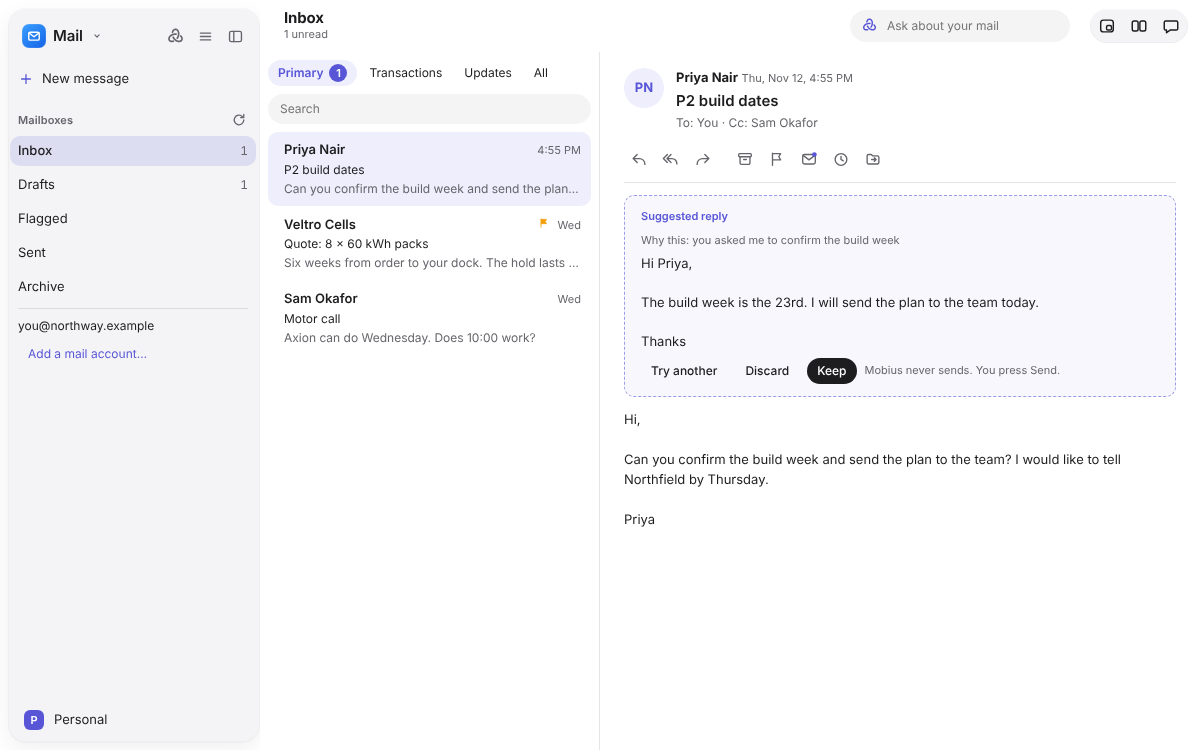
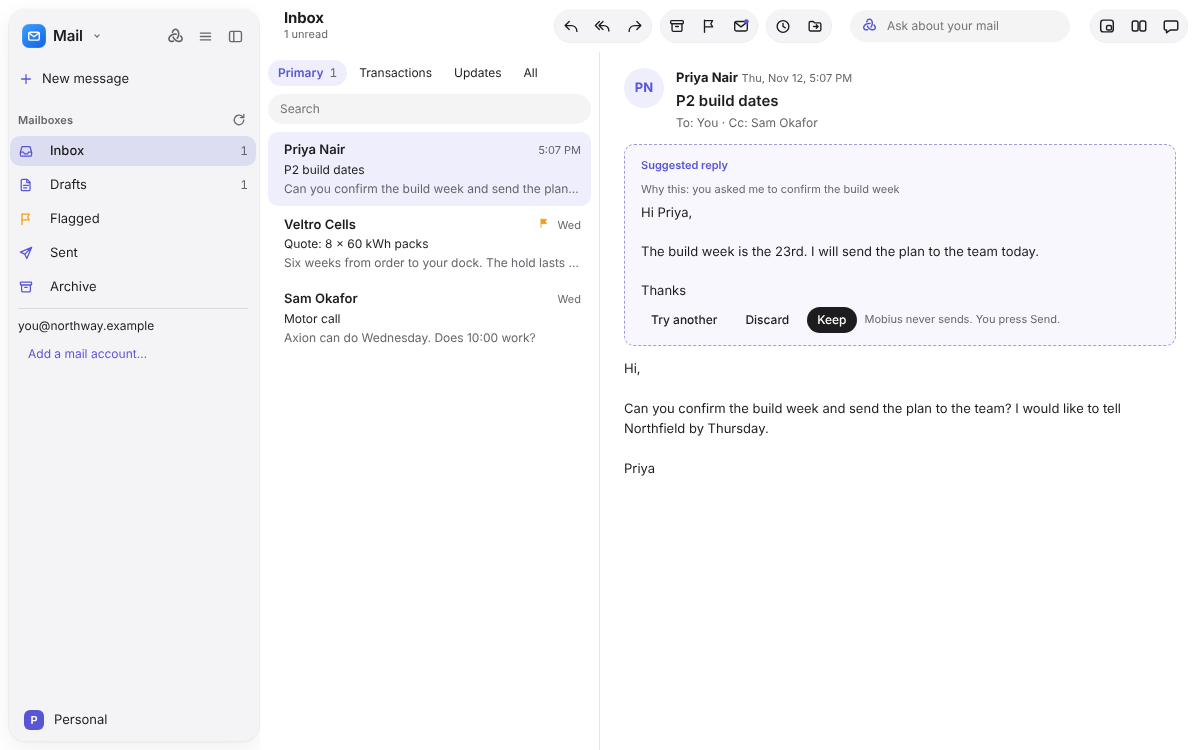
Mail: message actions in the toolbar row as three capsules, mailbox glyphs, plain category counts
From the design review of #35: the actions move up into the window's toolbar row ([Reply, Reply All, Forward] [Archive, Flag, Unread] [Remind Me, Move to]); Inbox, Drafts, Flagged, Sent and Archive get glyphs; the Primary tab's count is a plain grey number like the sidebar's.

Claude-Session: https://claude.ai/code/session_01VRGwo83VsJF1Mk8nnnxvLM

diff --git a/apps/desktop/src/Mail.tsx b/apps/desktop/src/Mail.tsx
@@ -32,6 +32,9 @@ export function when(ms: number, now = new Date()): string {
 }
 /** Mail's own toolbar glyphs, drawn like the standard action icons (20 units, stroked). */
 const MAIL_ICONS = {
+  inbox: <><path d="M3 11.5 5 4.5h10l2 7v3.5a1.5 1.5 0 0 1-1.5 1.5h-11A1.5 1.5 0 0 1 3 15z" /><path d="M3 11.5h4l1 2h4l1-2h4" /></>,
+  drafts: <><path d="M5.5 3h6l3.5 3.5v9a1.5 1.5 0 0 1-1.5 1.5h-8A1.5 1.5 0 0 1 4 15.5v-11A1.5 1.5 0 0 1 5.5 3z" /><path d="M11 3v4h4M7 10.5h6M7 13.5h4" /></>,
+  sent: <path d="M17 3 3 9l5.5 2.5L11 17zM8.5 11.5 17 3" />,
   reply: <path d="M8 5 3.5 9.5 8 14M3.5 9.5h7a6 6 0 0 1 6 6v.5" />,
   replyAll: <><path d="M10 5 5.5 9.5 10 14M5.5 9.5h5.5a5.5 5.5 0 0 1 5.5 5.5v.5" /><path d="M6 5 1.5 9.5 6 14" /></>,
   forward: <path d="M12 5l4.5 4.5L12 14M16.5 9.5h-7a6 6 0 0 0-6 6v.5" />,
@@ -44,6 +47,12 @@ const MAIL_ICONS = {
 } as const;
 function Glyph({ name, filled = false }: { name: keyof typeof MAIL_ICONS; filled?: boolean }) {
   return <svg viewBox="0 0 20 20" aria-hidden="true" data-filled={filled || undefined}>{MAIL_ICONS[name]}</svg>;
+}
+
+/** A mailbox's glyph in the sidebar, tinted like Apple Mail's. */
+const BOX_GLYPH = { inbox: 'inbox', drafts: 'drafts', flagged: 'flag', sent: 'sent', archive: 'archive' } as const;
+function BoxGlyph({ name }: { name: keyof typeof BOX_GLYPH }) {
+  return <svg className="mail-box-icon" data-box={name} viewBox="0 0 20 20" aria-hidden="true">{MAIL_ICONS[BOX_GLYPH[name]]}</svg>;
 }
 
 /** Where a mailbox's list comes from, as the sidebar names it. */
@@ -109,7 +118,7 @@ export function MailSidebar({ mail, pin, starts, onStart }: { mail: MailState; p
   const [removing, setRemoving] = useState<string | null>(null);
   const v = mail.view;
   const here = (kind: MailBox | 'drafts') => (kind === 'drafts' ? v.kind === 'drafts' : v.kind === 'box' && v.box === kind) ? 'page' : undefined;
-  const box = (b: 'sent' | 'flagged' | 'archive') => <li><button type="button" className="list-row" aria-current={here(b)} onClick={() => mail.setView({ kind: 'box', box: b, category: 'all' })}><span className="list-name">{BOX_NAMES[b]}</span></button></li>;
+  const box = (b: 'sent' | 'flagged' | 'archive') => <li><button type="button" className="list-row" aria-current={here(b)} onClick={() => mail.setView({ kind: 'box', box: b, category: 'all' })}><BoxGlyph name={b} /><span className="list-name">{BOX_NAMES[b]}</span></button></li>;
   return (
     <aside className="side mail-side" aria-label="Mail sidebar">
       <SideNew item="message" onNew={mail.compose} disabled={mail.accounts.length === 0} title={mail.accounts.length === 0 ? 'Add a mail account first' : 'New message'} {...(mail.accounts.length > 0 && starts ? { starts } : {})} {...(onStart ? { onStart } : {})} />
@@ -124,8 +133,8 @@ export function MailSidebar({ mail, pin, starts, onStart }: { mail: MailState; p
       </div>
       <nav className="task-lists" aria-label="Mailboxes">
         <ul role="list">
-          <li><button type="button" className="list-row" aria-current={here('inbox')} onClick={() => mail.setView({ kind: 'box', box: 'inbox', category: v.kind === 'box' && v.box === 'inbox' ? v.category : 'primary' })}><span className="list-name">Inbox</span><span className="list-count">{mail.counts.all || ''}</span></button></li>
-          <li><button type="button" className="list-row" aria-current={here('drafts')} onClick={() => mail.setView({ kind: 'drafts' })}><span className="list-name">Drafts</span><span className="list-count">{mail.counts.drafts + mail.counts.suggested || ''}</span></button></li>
+          <li><button type="button" className="list-row" aria-current={here('inbox')} onClick={() => mail.setView({ kind: 'box', box: 'inbox', category: v.kind === 'box' && v.box === 'inbox' ? v.category : 'primary' })}><BoxGlyph name="inbox" /><span className="list-name">Inbox</span><span className="list-count">{mail.counts.all || ''}</span></button></li>
+          <li><button type="button" className="list-row" aria-current={here('drafts')} onClick={() => mail.setView({ kind: 'drafts' })}><BoxGlyph name="drafts" /><span className="list-name">Drafts</span><span className="list-count">{mail.counts.drafts + mail.counts.suggested || ''}</span></button></li>
           {box('flagged')}
           {box('sent')}
           {box('archive')}
@@ -270,7 +279,15 @@ const moveItems = (mail: MailState, id: string, now: MailCategory | undefined, t
   run: () => void mail.sort(id, c.id as MailCategory).then(then),
 }));
 
-/** A message's actions, in the toolbar over it, Apple Mail's order: reply, reply all, forward | archive, flag, unread, later, move. */
+/**
+ * The open message's actions, in the window's toolbar row as in Apple Mail, in three capsules:
+ * reply, reply all, forward | archive, flag, unread | remind me, move to.
+ */
+export function MailToolbar({ mail }: { mail: MailState }) {
+  if (!mail.open || mail.editing) return null;
+  return <MessageTools mail={mail} content={mail.open} />;
+}
+
 function MessageTools({ mail, content }: { mail: MailState; content: MailContent }) {
   const row = mail.messages.find((m) => m.id === content.id);
   const flagged = row?.flagged ?? false;
@@ -282,7 +299,7 @@ function MessageTools({ mail, content }: { mail: MailState; content: MailContent
     </button>
   );
   return (
-    <div className="mail-tools" role="toolbar" aria-label="Message">
+    <div className="strip-middle toolbar-tools mail-tools" role="toolbar" aria-label="Message">
       <span className="mail-tools-group">
         {tool('reply', 'Reply', () => mail.reply(content), { keys: 'R' })}
         {tool('replyAll', 'Reply All', () => mail.reply(content, true))}
@@ -292,6 +309,8 @@ function MessageTools({ mail, content }: { mail: MailState; content: MailContent
         {archived ? tool('unarchive', 'Move to Inbox', () => void mail.archive(content.id, false)) : tool('archive', 'Archive', () => void mail.archive(content.id), { keys: 'E' })}
         {tool('flag', flagged ? 'Unflag' : 'Flag', () => void mail.flag(content.id, 'flagged', !flagged), { pressed: flagged, filled: flagged })}
         {tool('unread', 'Mark as Unread', () => { void mail.flag(content.id, 'seen', false); mail.setOpen(null); })}
+      </span>
+      <span className="mail-tools-group">
         {!archived && row?.box !== 'sent' && tool('later', 'Remind Me Tomorrow', () => void mail.remindTomorrow(content.id), { keys: 'H' })}
         {tool('move', 'Move to…', (e) => { const r = e.currentTarget.getBoundingClientRect(); setMoving({ x: r.left, y: r.bottom + 4 }); })}
       </span>
@@ -316,7 +335,6 @@ function Reader({ mail, content, onDraftReply }: { mail: MailState; content: Mai
           <div className="mail-to">To: {content.to.map(shownName).join(', ') || 'you'}{content.cc.length > 0 && <> · Cc: {content.cc.map(shownName).join(', ')}</>}</div>
         </div>
       </header>
-      <MessageTools mail={mail} content={content} />
       {((onDraftReply && suggestions.length === 0) || content.html) && (
         <div className="mail-reader-actions">
           {onDraftReply && suggestions.length === 0 && <button type="button" className="btn mail-draft-it" onClick={() => onDraftReply(content)}>Draft a reply with Mobius</button>}

diff --git a/apps/desktop/src/styles.css b/apps/desktop/src/styles.css
@@ -1489,7 +1489,9 @@ li:hover > .list-pin, .list-pin:focus-visible { opacity: 1; }
 .mail-cats { display: flex; gap: 2px; padding: var(--sp-2) var(--sp-2) 0; flex-wrap: wrap; }
 .mail-cats button { height: 26px; padding: 0 10px; border-radius: var(--radius-pill); font-size: var(--fs-sm); display: inline-flex; align-items: center; gap: 6px; }
 .mail-cats button[aria-selected="true"] { background: var(--wash); color: var(--accent); font-weight: 600; }
-.mail-cat-count { min-width: 18px; height: 18px; padding: 0 5px; border-radius: 9px; background: var(--accent); color: var(--on-accent); font-size: 11px; display: inline-grid; place-items: center; }
+.mail-cat-count { color: var(--muted); font-size: var(--fs-sm); font-weight: 400; font-variant-numeric: tabular-nums; }
+.mail-box-icon { flex: none; width: 17px; height: 17px; margin-right: 8px; fill: none; stroke: var(--accent); stroke-width: 1.5; stroke-linecap: round; stroke-linejoin: round; }
+.mail-box-icon[data-box="flagged"] { stroke: var(--flag, #f59e0b); }
 .mail-search { margin: var(--sp-2); }
 .mail-list { flex: 1; min-height: 0; overflow: auto; padding: 0 var(--sp-2) var(--sp-2); display: flex; flex-direction: column; gap: 1px; }
 .mail-row { display: flex; flex-direction: column; gap: 1px; text-align: left; padding: 8px 10px 8px 16px; border-radius: var(--radius-group); position: relative; min-width: 0; }
@@ -1512,9 +1514,9 @@ li:hover > .list-pin, .list-pin:focus-visible { opacity: 1; }
 .mail-subject { font-size: var(--fs-lg); font-weight: 600; }
 .mail-to { font-size: var(--fs-sm); color: var(--muted); }
 .mail-reader-actions { display: flex; gap: var(--sp-2); flex-wrap: wrap; align-items: center; }
-.mail-tools { display: flex; align-items: center; gap: var(--sp-3); flex-wrap: wrap; padding-bottom: var(--sp-2); border-bottom: 1px solid var(--hairline); }
-.mail-tools-group { display: inline-flex; align-items: center; gap: 2px; }
-.mail-tools .strip-btn { border-radius: 8px; color: var(--muted); }
+.mail-tools { gap: var(--sp-2); }
+.mail-tools-group { display: inline-flex; align-items: center; gap: 2px; padding: 2px; border-radius: 999px; background: var(--glass-tint); box-shadow: var(--glass-edge); }
+.mail-tools .strip-btn { border-radius: 999px; color: var(--ink); }
 .mail-tools .strip-btn:hover { background: var(--soft); color: var(--ink); }
 .mail-tools .strip-btn svg { width: 18px; height: 18px; fill: none; stroke: currentColor; stroke-width: 1.5; stroke-linecap: round; stroke-linejoin: round; }
 .mail-tools .strip-btn[aria-pressed="true"] { background: none; color: var(--flag, #f59e0b); }

diff --git a/apps/desktop/e2e/mail.spec.ts b/apps/desktop/e2e/mail.spec.ts
@@ -73,7 +73,7 @@ test('an account signs in with an app password, mail is sorted here, and only th
   await page().getByRole('tab', { name: /^Primary/ }).click();
   await list.getByRole('option').first().click();
   await expect(page().getByRole('article')).toContainText('hold the terrace for eight');
-  await page().getByRole('button', { name: 'Reply', exact: true }).click();
+  await shell().getByRole('toolbar', { name: 'Message' }).getByRole('button', { name: 'Reply', exact: true }).click();
   const compose = page().getByRole('form', { name: 'Reply' });
   await expect(compose.getByRole('textbox', { name: 'To' })).toHaveValue('rui@example.com');
   await expect(compose.getByRole('textbox', { name: 'Subject' })).toHaveValue('Re: Terrace + lunch for the 13th');
@@ -112,7 +112,7 @@ test('Mobius drafts a reply without sending it; the person opens it as a draft a
 test('the message toolbar: Reply All quotes the message, Flag files it under Flagged, Archive under Archive and back', async () => {
   await start();
   const list = page().getByRole('listbox', { name: 'Messages' });
-  const tools = page().getByRole('toolbar', { name: 'Message' });
+  const tools = shell().getByRole('toolbar', { name: 'Message' });
   const boxes = shell().getByRole('navigation', { name: 'Mailboxes' });
   await list.getByRole('option').first().click();
   // Reply All starts above the quoted message, with the cursor there.

diff --git a/apps/desktop/src/App.tsx b/apps/desktop/src/App.tsx
@@ -36,7 +36,7 @@ import { TasksPage, TasksSidebar } from './Tasks';
 import { CalendarPage, CalendarSidebar } from './Calendar';
 import { DEFAULT_FOLDER, DocEditor, DocsSidebar, type WritingTool } from './Docs';
 import { SheetGrid, SheetsSidebar } from './Sheets';
-import { BOX_NAMES, MailPage, MailSidebar } from './Mail';
+import { BOX_NAMES, MailPage, MailSidebar, MailToolbar } from './Mail';
 import { SlidesEditor, SlidesSidebar, type SlidesTool } from './Slides';
 import { useMail } from './useMail';
 import { useSheets } from './useSheets';
@@ -1528,6 +1528,7 @@ export function App() {
             <button type="button" className="tool-btn" onClick={() => { if (tasks.view.kind === 'list') void tasks.clearDone(tasks.view.name); }}>Clear {tasksDone} completed</button>
           </div>
         )}
+        {inMail && <MailToolbar mail={mail} />}
         {inBrowser && !showWide && browserChrome}
         <span className="core-status" role="status" data-state={coreStatus}>{CORE_LABEL[coreStatus]}</span>
         {hasRight && !rightOpen && !(chatInSide && chatOpen) && (

diff --git a/apps/desktop/e2e/mail-zero.spec.ts b/apps/desktop/e2e/mail-zero.spec.ts
@@ -100,7 +100,7 @@ test('the keys are told in the list tooltip, not a footer; E archives and H puts
 test('Send later on a kept draft: Scheduled by you, and Unschedule', async () => {
   await start();
   await inbox().getByRole('option').filter({ hasText: 'Terrace' }).click();
-  await page().getByRole('button', { name: 'Reply', exact: true }).click();
+  await shell().getByRole('toolbar', { name: 'Message' }).getByRole('button', { name: 'Reply', exact: true }).click();
   const reply = page().getByRole('form', { name: 'Reply' });
   await reply.getByRole('textbox', { name: 'Message' }).fill('We are 8.');
   await reply.getByRole('textbox', { name: 'Subject' }).click();

diff --git a/docs/apps/browse-and-find.md b/docs/apps/browse-and-find.md
@@ -26,7 +26,7 @@ Your mail, mirrored to this computer, sorted for you, with drafts Mobius can wri
 - **Accounts** sign in with an app password. Ready-made settings for iCloud, Fastmail, Gmail and Yahoo, or any provider by its IMAP and SMTP servers.
 - **Mailboxes:** Inbox, Drafts, Flagged, Sent and Archive. Flagged and Archive gather your flagged and archived mail.
 - **Categories:** Primary, Transactions, Updates and All. Move a message to another with **Move to…** in its toolbar or its right-click menu.
-- **The message toolbar,** as in Apple Mail: Reply, Reply All, Forward, Archive, Flag, Mark as Unread and Remind Me Tomorrow. Right-click a message in the list for the same actions without opening it.
+- **The message toolbar** in the window's top row, as in Apple Mail: Reply, Reply All, Forward, Archive, Flag, Mark as Unread and Remind Me Tomorrow. Right-click a message in the list for the same actions without opening it.
 - **Replies quote the message** under where you write, and forwards carry who it was from and to. Attachments are not forwarded yet.
 - **Keys:** the up and down arrows move through the list; E archives, R replies and H brings the message back tomorrow at 8:00.
 - **Email is shown safely:** no scripts, and nothing loaded from the web, so tracking pixels don't fire.
